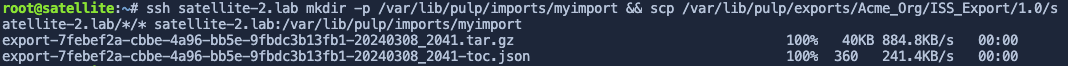
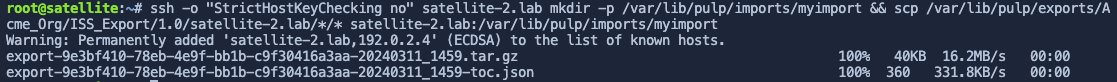
completed iss export

diff --git a/satellite-advanced-testing/06-iss-export/assignment.md b/satellite-advanced-testing/06-iss-export/assignment.md
@@ -26,7 +26,8 @@ tabs:
 difficulty: ""
 ---
 
-Inter-Satellite-Sync export sync exports software at the repository, content view, and lifecycle environment levels.
+Inter-Satellite Sync (ISS) export sync exports software at the repository, content view, and lifecycle environment levels. In this assignment, we'll export the custom repo 'My custom repository' at the content view level from `satellite.lab` and import it into `satellite-2.lab`.
+
 
 - create a new content view
 - add "My custom repository" to it
@@ -34,8 +35,13 @@ Inter-Satellite-Sync export sync exports software at the repository, content vie
 - transfer to satellite-2
 - import into satellite-2
 
+Create a new content view
+=========================
+
+Copy and paste the following playbook into the `Satellite Server` terminal.
+
 ```
-tee ~/issexportcv.yml << EOF
+tee ~/createandpublishissexport.yml << EOF
 ---
 - name: Create a new CV "ISS Export".
   hosts: localhost
@@ -65,51 +71,72 @@ tee ~/issexportcv.yml << EOF
 EOF
 ```
 
-```
-ansible-playbook issexportcv.yml
-```
+This playbook creates a new content view called `ISS export` containing the repository `My custom repository`. Then the playbook publishes and promotes the content view `ISS Export` to the `Library` lifecycle environment.
 
-Copy and paste the following playbook into the `Satellite Server` terminal.
+Run the `createandpublishissexport.yml` playbook in the `Satellite Server` terminal.
 
 ```
-tee ~/issexportcv.yml << EOF
----
-- name: Create a new CV "ISS Export".
-  hosts: localhost
-  remote_user: root
-
-  tasks:
-  - name: "Export content view version (full)"
-    redhat.satellite.content_export_version:
-      content_view: "ISS Export"
-      content_view_version: '1.0'
-      username: "admin"
-      password: "bc31c9a6-9ff0-11ec-9587-00155d1b0702"
-      server_url: "https://satellite.lab"
-      organization: "Acme Org"
-      destination_server: "satellite-2.lab"
-EOF
+ansible-playbook createandpublishissexport.yml
 ```
 
-```
-ls /var/lib/pulp/exports/Acme_Org/ISS_Export/1.0/
-```
+Create and Inter-Satellite Sync export
+======================================
+
+Now we'll export the content view `ISS Export` as an ISS export.
+
+Copy and paste the following command into the `Satellite Server` terminal.
 
 ```
-ansible-playbook issexportcv.yml
+hammer content-export complete version --content-view "ISS Export" --version "1.0" --organization "Acme Org"
 ```
 
+Copy the exported data to satellite-2.lab
+=========================================
+
+On `satellite.lab`, you can find the exported data in `/var/lib/pulp/exports/Acme_Org/Default_Organization_View/1.0/`.
+
+```
+ls /var/lib/pulp/exports/Acme_Org/ISS_Export/1.0/*/
+```
 ![](../assets/exportedcv.png)
 
+In the `Satellite Server` terminal run the following command.
+
 ```
-ssh satellite-2.lab mkdir -p /var/lib/pulp/imports/myimport && scp /var/lib/pulp/exports/Acme_Org/ISS_Export/1.0/satellite-2.lab/*/* satellite-2.lab:/var/lib/pulp/imports/myimport
+scp -o "StrictHostKeyChecking no" -rp /var/lib/pulp/exports/Acme_Org/ISS_Export/1.0/*/ satellite-2.lab:/var/lib/pulp/imports/Acme_Org/
 ```
 
 ![](../assets/mvexportstosatellite2.png)
 
+This command will create a new directory on `satellite-2.lab` in `/var/lib/pulp/imports` called `Acme_Org` and copy all the exported data to it.
+
+Import the exported data into satellite-2.lab
+=============================================
+
 We need to change the ownership of the data we just exported to the `pulp` account and group. Switch to the `Satellite Server 2` terminal and enter the following command.
 
 ```
-chown -R /var/lib/pulp/imports/myimport
+chown -R pulp:pulp /var/lib/pulp/imports/Acme_Org/
 ```
 
+In the `Satellite Server 2` terminal, run the following command.
+
+```
+hammer content-import version --organization "Acme Org" --path "/var/lib/pulp/imports/Acme_Org"
+```
+
+You can verify the result in the web gui with the same credentials as `satellite.lab`.
+
+Username
+```
+admin
+```
+
+Password
+```
+bc31c9a6-9ff0-11ec-9587-00155d1b0702
+```
+
+![](../assets/exportedissexport.png)
+
+![](../assets/exportedcustomrepo.png)

diff --git a/satellite-advanced-testing/04-capsule/assignment.md b/satellite-advanced-testing/04-capsule/assignment.md
@@ -370,6 +370,19 @@ We left the `Download Policy` on the default setting of `On Demand`. This means 
 
 Migrate rhel1 to the capsule server.
 ====================================
+In the `rhel1` terminal enter the following command to view the redhat.repo file.
+
+```
+cat /etc/yum.repos.d/redhat.repo
+```
+
+The output will look like this.
+
+![](../assets/satelliteredhatrepo.png)
+
+`rhel1` is using the BaseOS, AppStream and Satellite Client repositories provided by the `satellite.lab` server.
+
+When we migrate `rhel1` to `capsule.lab`, `rhel1` will only have access to the BaseOS repository as configured in the `RHEL9` content view.
 
 Navigate to the `All Hosts` menu.
 
@@ -405,4 +418,4 @@ cat /etc/yum.repos.d/redhat.repo
 
 ![verify capsule migration](../assets/verifycapsulemigration.png)
 
-The `redhat.repo` will show that the baseurl points at `capsule.lab`.
+The `redhat.repo` will show that the baseurl points at `capsule.lab`. As well, `rhel1` only has access to the BaseOS repository as defined in the `RHEL9` content view.
